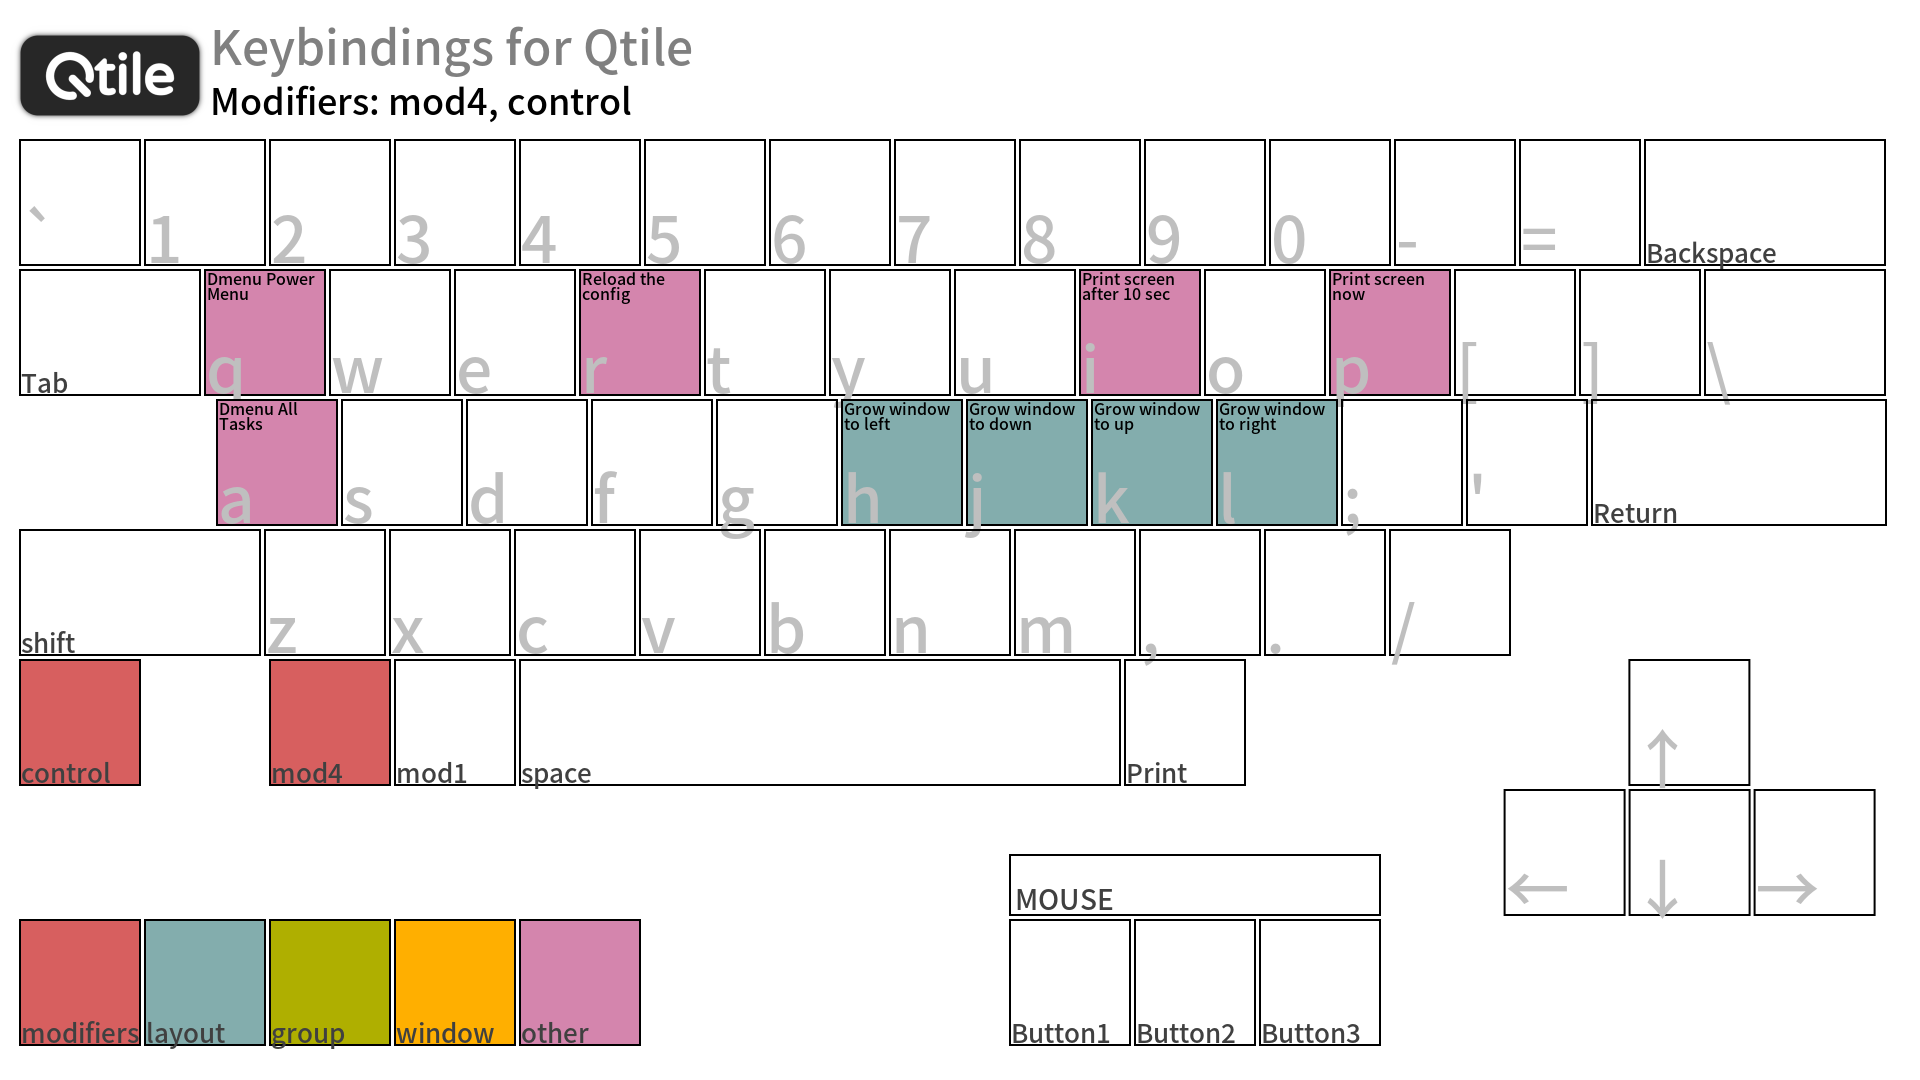
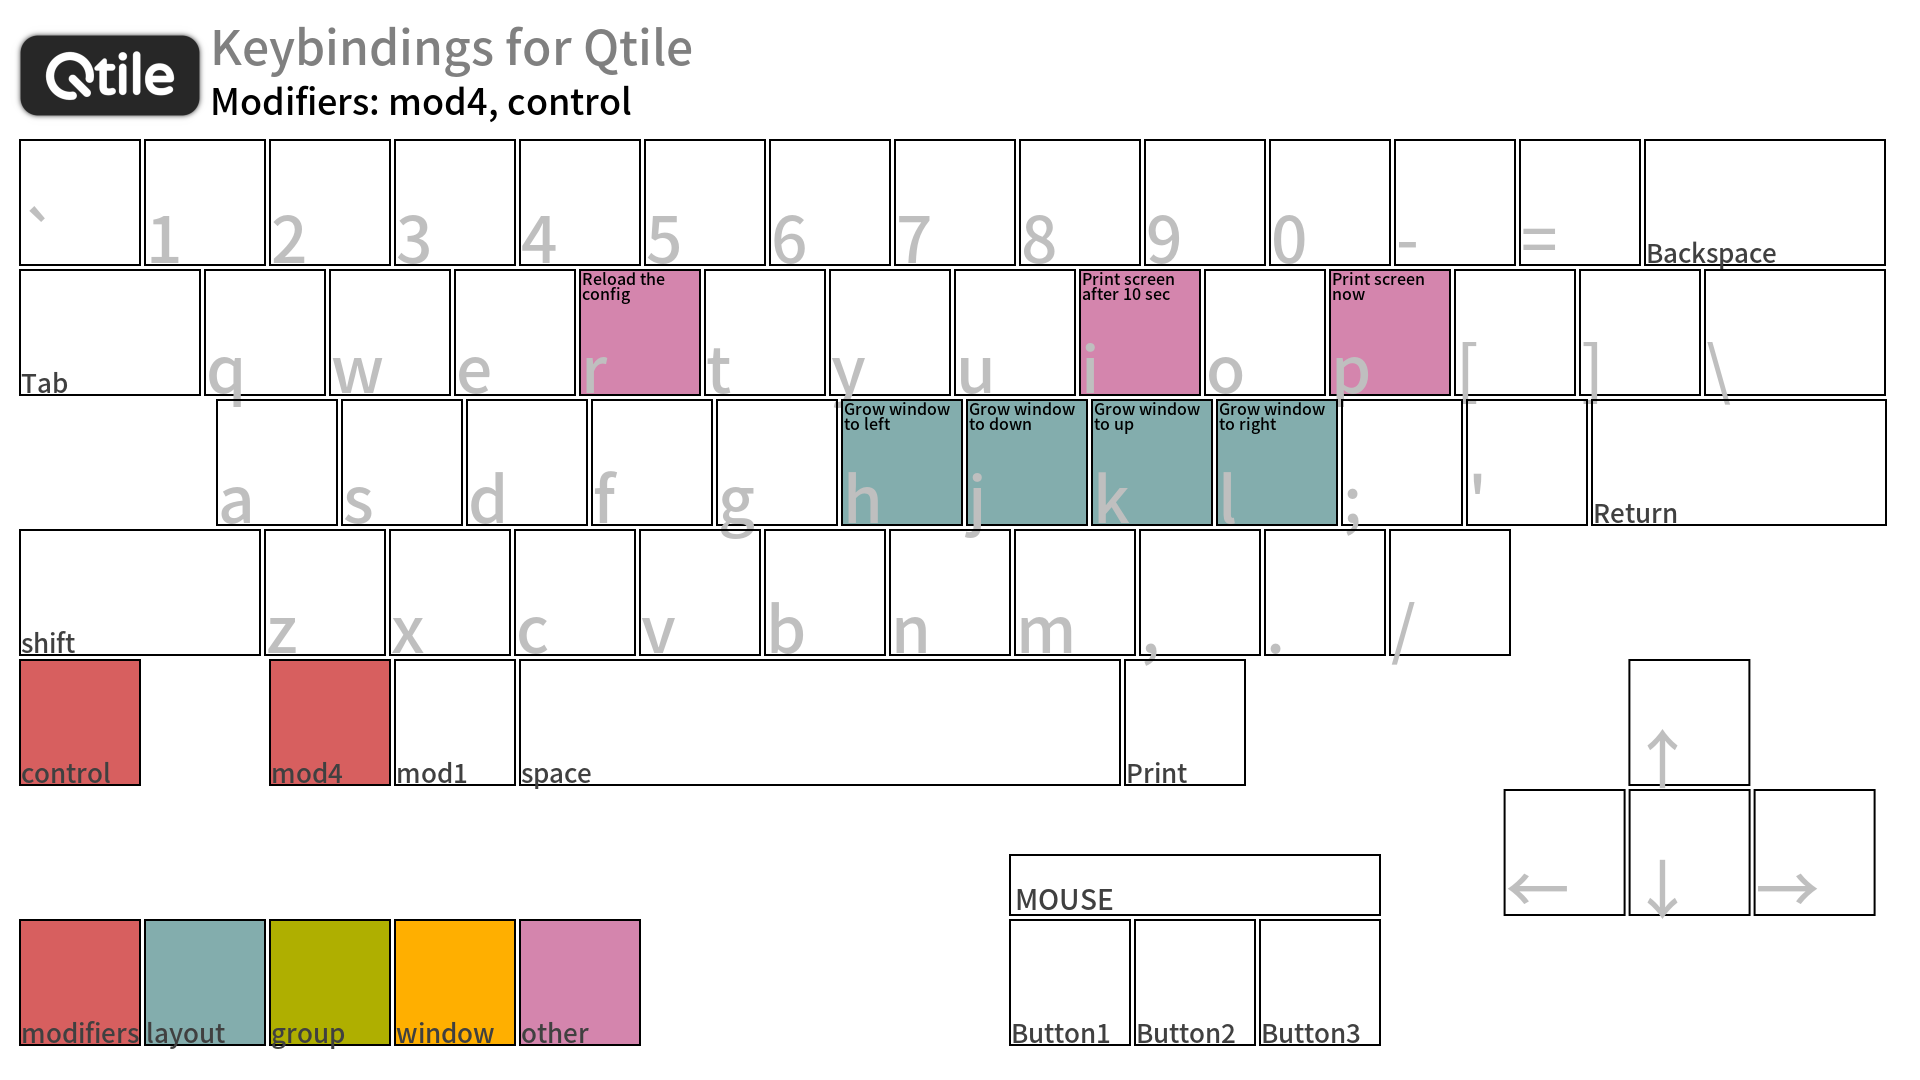
Delete dmenu function

Changed region(s): [[0.0938, 0.2444, 0.1875, 0.4889]]

diff --git a/modules/keys.py b/modules/keys.py
@@ -11,7 +11,6 @@ from libqtile.lazy import lazy
 from libqtile.config import Key, KeyChord
 #
 from modules.variables import MOD4, CONTROL, SHIFT, TAB, SPACE, RETURN, UP, DOWN, LEFT, RIGHT
-from modules.dmenu import dmenu_normal, dmenu_power, dmenu_window
 from modules.popup import show_power_menu
 from modules.functions import focus_next_floating, spawn_by_group
 
@@ -91,13 +90,8 @@ keys = [
   Key([MOD4], 'b', lazy.hide_show_bar(position = 'bottom'), desc = 'Toggle bottom bar'),
 
 
-  Key([MOD4],          'r', lazy.spawncmd(),                  desc = 'Spawn a command using a prompt widget'),
-  Key([MOD4, CONTROL], 'r', lazy.reload_config(),             desc = 'Reload the config'),
-  Key([MOD4, SHIFT],   'r', lazy.run_extension(dmenu_normal), desc = 'Dmenu Run Normal'),
-
-
-  Key([MOD4, CONTROL], 'a', lazy.run_extension(dmenu_window), desc = 'Dmenu All Tasks'),
-  Key([MOD4, CONTROL], 'q', lazy.run_extension(dmenu_power),  desc = 'Dmenu Power Menu'),
+  Key([MOD4],          'r', lazy.spawncmd(),      desc = 'Spawn a command using a prompt widget'),
+  Key([MOD4, CONTROL], 'r', lazy.reload_config(), desc = 'Reload the config'),
 
 
   Key([MOD4], TAB,    lazy.next_layout(),            desc = 'Toggle between layouts'),

diff --git a/modules/screens_bar__main.py b/modules/screens_bar__main.py
@@ -48,6 +48,7 @@ screen_main = Screen(
       ## ------------------------------------
 
       widget.Prompt(
+        prompt = 'Run: ',
         fontsize = 20,
         font = font_set['sub2'],
 
@@ -60,12 +61,14 @@ screen_main = Screen(
         fontsize = 20,
         font = font_set['sub2'],
 
-        chords_colors = {
-          'applications': (
-            Theme_Colors['Oreange'],
-            Theme_Colors['DarkBlue_default'],
-          ),
-        },
+        # TODO: Pend
+        # chords_colors = {
+        #   'Applications': (
+        #     # Theme_Colors['Oreange'],
+        #     Theme_Colors['Debug'],
+        #     # Theme_Colors['DarkBlue_default'],
+        #   ),
+        # },
 
         foreground = Theme_Colors['DarkBlue_default'],
         background = Theme_Colors['Oreange'],

diff --git a/modules/Theme_Colors_EndeavourOS_Xfce4.py b/modules/Theme_Colors_EndeavourOS_Xfce4.py
@@ -5,7 +5,7 @@ Color scheme
 This color scheme references the default colors of Xfce4-terminal in EndeavourOS.
 
 #08052B #FF7F7F #7F3FBF #CC3980 #7FBAFF #7F3FBF #7F7FFF #CDCCDB
- #7FBAFF #FF7F7F #9999CC #FF7F7F #7F7FFF #7F3FBF #7F7FFF #E3E3EA
+#7FBAFF #FF7F7F #9999CC #FF7F7F #7F7FFF #7F3FBF #7F7FFF #E3E3EA
 
 #08052B #221F45 #3B385E #555278 #6E6B91 #8784AA
 https://www.colors.tools/lighten-and-darken/

diff --git a/README.md b/README.md
@@ -1,4 +1,9 @@
 > [!NOTE]
+> I found this `README.md` alone to be too complicated and tedious. For this reason, I am gradually migrating and writing documentation in `[docs](./docs/)`.  
+> 2025-09-29
+
+
+> [!NOTE]
 > Regarding the installation procedure for Qtile and Qtile-extras itself,  
 > I first install Xfce4 in EndeavourOS, then install Qtile and Qtile-extras with `yay`, and then configure the various environments.  
 > For this reason, various daemons use those of Xfce4.  
@@ -88,6 +93,9 @@ It looks like you might be able to choose which layouts to use for each workspac
 ## Additional information:
 
 ### Keyboard launcher is dmenu
+
+> [!NOTE]
+> At the end of September 2025, I deleted this feature as I no longer use it.
 
 <a href="https://github.com/dollplayer2501/dollplayer2501/blob/main/screenshot..qtile/05..dmenu..EndeavourOS_Qtile_2025-03-10_16-31-26.png"><img src="https://raw.githubusercontent.com/dollplayer2501/dollplayer2501/refs/heads/main/screenshot..qtile/05..dmenu..EndeavourOS_Qtile_2025-03-10_16-31-26.png" width=300></a>
 

diff --git a/docs/07_00-unused-features.md b/docs/07_00-unused-features.md
@@ -1,0 +1,12 @@
+# Unused features
+
+Initially, I incorporated these functions for learning purposes, but I no longer use them, so I'll list them here. Since I manage it using Git, I've completely deleted them, but if you trace the revisions, you should be able to see the settings.
+
+
+## Dmenu
+
+The reason is that I don't use this function, so I decided it was unnecessary. I don't need it because I type commands directly from the terminal or use. For now, libqtile.widget.Prompt is sufficient for me. Although the uses are clearly different, I may focus on Popup Toolkit in the future.
+
+
+
+<!-- -->

diff --git a/docs/06_00-widgets.md b/docs/06_00-widgets.md
@@ -1,2 +1,3 @@
-# Built-in Widgets
+# Built-in Widgets
+
 
